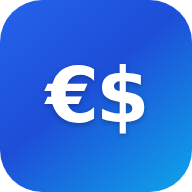
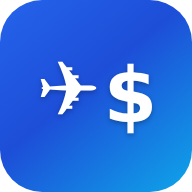
Renommer l'app en BonVoyage$
« EuroCad » nommait une paire de devises, ce qui est devenu faux depuis l'ajout
des ~160 devises. « BonVoyage$ » décrit ce que l'app fait sans se lier à une
paire : le $ y désigne la devise de référence, celle vers laquelle converge le
budget, pas la seule devise gérée.

Titre, manifeste et icône mis à jour. L'icône passe du monogramme « €$ », qui
portait le même biais que l'ancien nom, à « ✈$ » sur le même dégradé. Les deux
glyphes n'ayant pas la même ligne de base dans la police, l'avion est remonté
et écarté pour équilibrer la composition.

Deux choses gardent volontairement l'ancien nom :

- Le dépôt, car son nom détermine l'adresse du site publié. Le renommer
  déplacerait l'URL et casserait les installations existantes.
- Les clés de stockage local (eurocad.*), car les renommer ferait perdre les
  historiques, budgets et réglages déjà enregistrés sur les appareils. Un
  commentaire dans le code et une note dans le README expliquent pourquoi, pour
  qu'on ne soit pas tenté de « ranger » ça plus tard.

Rappel : Android fige le nom et l'icône au moment de l'installation. Il faut
désinstaller puis réinstaller l'app pour les voir changer.

107 vérifications Playwright.

Claude-Session: https://claude.ai/code/session_01VBXoenJ54JKLLWv93xKDCm

Changed region(s): [[0.5312, 0.3125, 0.8125, 0.7188], [0.1875, 0.3125, 0.5, 0.6562]]

diff --git a/index.html b/index.html
@@ -3,8 +3,8 @@
 <head>
 <meta charset="utf-8">
 <meta name="viewport" content="width=device-width, initial-scale=1, maximum-scale=1, viewport-fit=cover">
-<title>EuroCad</title>
-<meta name="description" content="Convertisseur multi-devises et suivi de budget de voyage, hors-ligne.">
+<title>BonVoyage$</title>
+<meta name="description" content="BonVoyage$ — convertisseur multi-devises et suivi de budget de voyage, hors-ligne.">
 <link rel="manifest" href="manifest.webmanifest">
 <meta id="tc" name="theme-color" content="#e9edf4">
 <meta name="mobile-web-app-capable" content="yes">
@@ -351,7 +351,7 @@ body.micro header{min-height:22px}
 "use strict";
 
 /* ---- Constantes et stockage ---------------------------------------------- */
-var VERSION = "5";
+var VERSION = "6";
 var FEE  = 0.025;      // marge carte approximative
 var HMAX = 500;        // plafond de l'historique
 var RMAX = 6;          // devises récentes épinglées en haut du sélecteur
@@ -377,6 +377,9 @@ var SOURCES = [
     pick:function(j){ return j && j.rates ? { base:"EUR", rates:j.rates, date:j.date } : null; } }
 ];
 
+// Préfixe volontairement conservé après le changement de nom : le renommer
+// ferait perdre l'historique, le budget et les réglages déjà enregistrés sur
+// les appareils. Il n'est visible de personne.
 var LS = {
   rates:"eurocad.rates", from:"eurocad.from", to:"eurocad.to", home:"eurocad.home",
   recent:"eurocad.recent", fee:"eurocad.fee", hist:"eurocad.hist",

diff --git a/sw.js b/sw.js
@@ -1,4 +1,4 @@
-// EuroCad service worker.
+// BonVoyage$ service worker.
 //
 // La v1 était en cache-first sur index.html : une fois installée, l'app ne
 // consultait plus jamais le réseau pour sa propre page et restait figée sur la
@@ -7,7 +7,7 @@
 // La page passe donc en réseau d'abord, avec repli sur le cache — et un délai
 // court pour ne pas sacrifier le démarrage quand la connexion traîne. Les
 // ressources fixes (icônes, manifeste) restent en cache d'abord.
-var CACHE = "eurocad-v4";
+var CACHE = "eurocad-v5";
 var DOC_TIMEOUT = 1200;   // au-delà, on sert le cache et on met à jour derrière
 
 var SHELL = [

diff --git a/README.md b/README.md
@@ -1,9 +1,16 @@
-# EuroCad
+# BonVoyage$
 
-Convertisseur **multi-devises** et suivi de budget de voyage, conçu pour donner le prix
-en 2 secondes, debout dans un magasin, sans réseau.
+Convertisseur **multi-devises** et suivi de budget de voyage, conçu pour donner
+le prix en 2 secondes, debout dans un magasin, sans réseau.
 
 👉 **https://benoleblanc.github.io/EuroCad/**
+
+> Le dépôt s'appelle toujours `EuroCad`, nom d'origine du projet quand il ne
+> convertissait qu'entre euro et dollar canadien. L'app a été renommée
+> `BonVoyage$` une fois les ~160 devises ajoutées ; le dépôt, lui, a gardé son
+> nom pour ne pas déplacer l'adresse du site ni casser les installations
+> existantes. Les clés de stockage local restent `eurocad.*` pour la même
+> raison : les renommer effacerait les historiques déjà enregistrés.
 
 ## Installation sur Android
 
